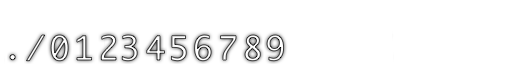
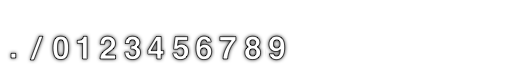
Improved fps_images based on Helvetica fonts

Changed region(s): [[0.0, 0.5, 0.5625, 1.0]]

diff --git a/tests/MenuTest.m b/tests/MenuTest.m
@@ -81,6 +81,7 @@ enum {
 		item5.scale = 0.8f;
 
 		// Events
+		[CCMenuItemFont setFontName: @"Marker Felt"];
 		CCMenuItemFont *item6 = [CCMenuItemFont itemWithString:@"Priority Test" block:^(id sender) {
 			CCScene *scene = [CCScene node];
 			[scene addChild:[LayerPriorityTest node]];
